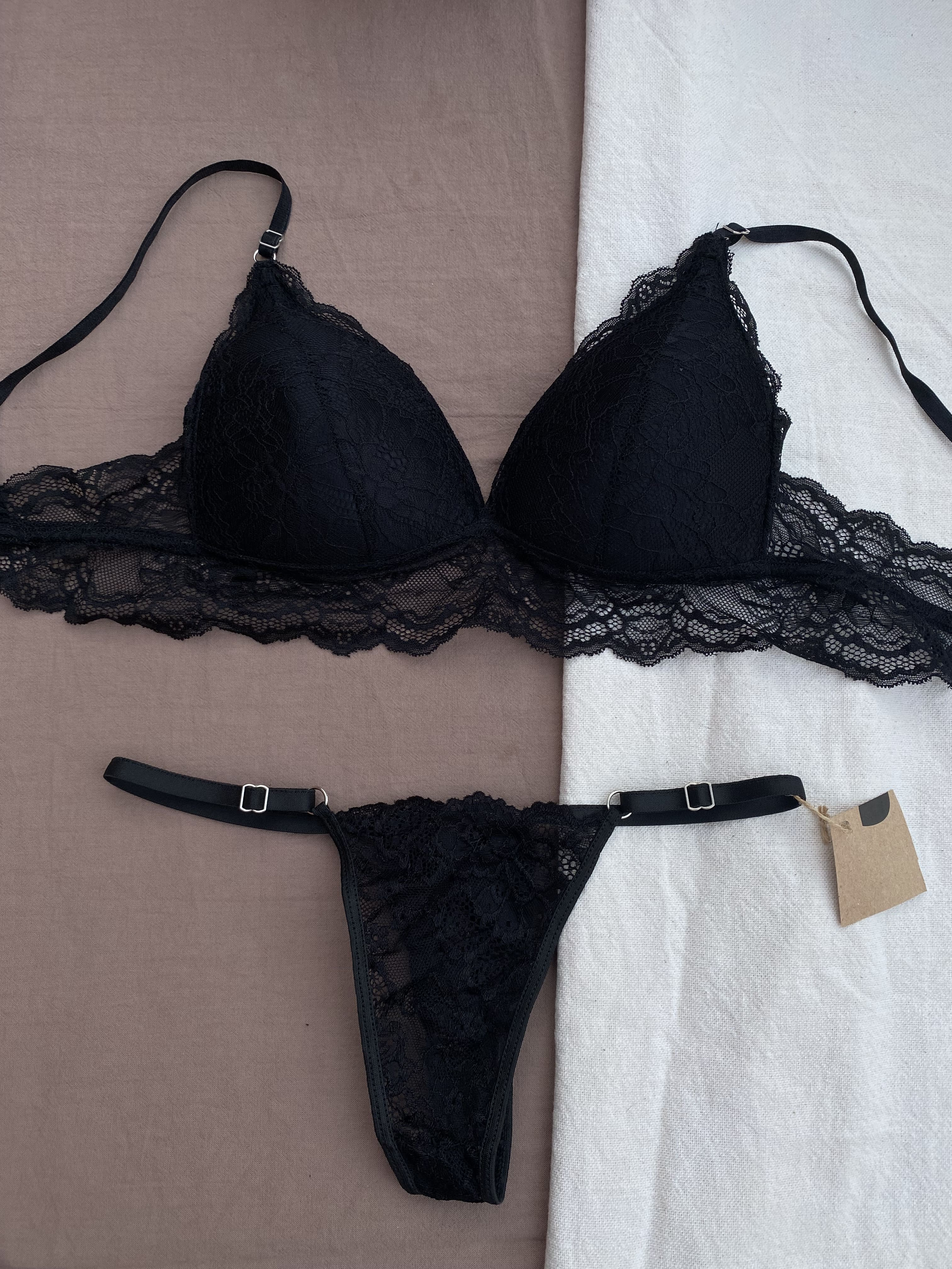
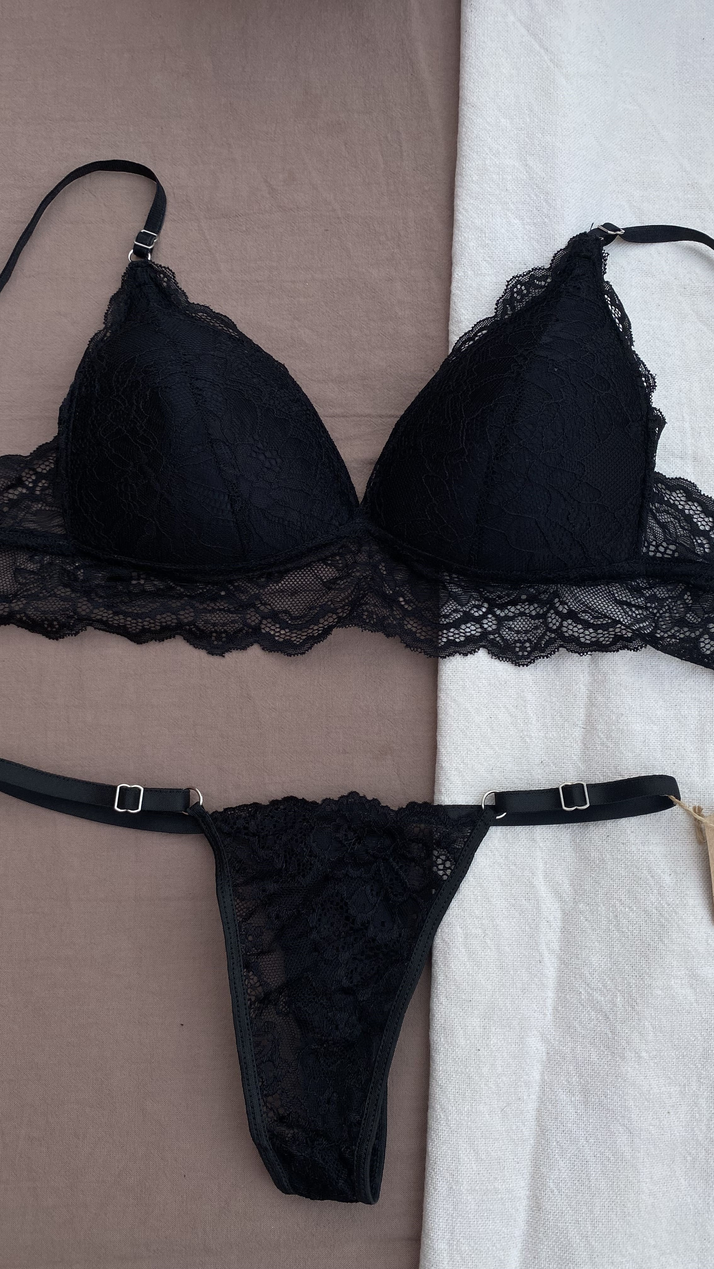
Se recortaron imagenes y se cambio el footer

Changed region(s): [[0.0, 0.0, 1.0, 1.0]]

diff --git a/pages/ropa_interior.html b/pages/ropa_interior.html
@@ -95,7 +95,7 @@
                 <article>
                     <img src="../assets/conj_magdalena.jpg" alt="Imagen a modo ilustrativo de un producto">
                     <h3> Conjunto Magdalena </h3>
-                    <p>$7500 <br> Conjunto de encaje con tazas soft color negro</p>
+                    <p>$7500 <br> Conjunto de encaje c/tazas soft color negro</p>
                     <a href="#" class="btn btn boton_azul">Ver más</a>
                 </article>
                 </div>
@@ -128,14 +128,12 @@
                 </div>
                 <div class="btn-group dropup">
                     <button type="button" class="btn btn-light dropdown-toggle" data-bs-toggle="dropdown" aria-expanded="false">
-                        Donde encontrarnos
+                        Redes
                     </button>
                     <ul class="dropdown-menu footer_menu"> <!-- Dropdown menu links -->
                         <li><a href="https://www.instagram.com/kachudaconk?igsh=N25yMm43b2F3MWNj">Instagram</a></li>
                         <li><hr class="dropdown-divider"></li>
                         <li><a href="http://wa.me/3515529492">Whatsapp</a></li>
-                        <li><hr class="dropdown-divider"></li>
-                        <li><a href="">Showroom</a></li> 
                     </ul>
                 </div>
             </div>

diff --git a/index.html b/index.html
@@ -150,14 +150,12 @@
                 </div>
                 <div class="btn-group dropup">
                     <button type="button" class="btn btn-light dropdown-toggle" data-bs-toggle="dropdown" aria-expanded="false">
-                        Donde encontrarnos
+                        Redes
                     </button>
                     <ul class="dropdown-menu footer_menu"> <!-- Dropdown menu links -->
                         <li><a href="https://www.instagram.com/kachudaconk?igsh=N25yMm43b2F3MWNj">Instagram</a></li>
                         <li><hr class="dropdown-divider"></li>
                         <li><a href="http://wa.me/3515529492">Whatsapp</a></li>
-                        <li><hr class="dropdown-divider"></li>
-                        <li><a href="">Showroom</a></li> 
                     </ul>
                 </div>
             </div>

diff --git a/pages/basicos.html b/pages/basicos.html
@@ -100,14 +100,12 @@
                 </div>
                 <div class="btn-group dropup">
                     <button type="button" class="btn btn-light dropdown-toggle" data-bs-toggle="dropdown" aria-expanded="false">
-                        Donde encontrarnos
+                        Redes
                     </button>
                     <ul class="dropdown-menu footer_menu"> <!-- Dropdown menu links -->
                         <li><a href="https://www.instagram.com/kachudaconk?igsh=N25yMm43b2F3MWNj">Instagram</a></li>
                         <li><hr class="dropdown-divider"></li>
                         <li><a href="http://wa.me/3515529492">Whatsapp</a></li>
-                        <li><hr class="dropdown-divider"></li>
-                        <li><a href="">Showroom</a></li> 
                     </ul>
                 </div>
             </div>

diff --git a/pages/conjuntos.html b/pages/conjuntos.html
@@ -135,14 +135,12 @@
                 </div>
                 <div class="btn-group dropup">
                     <button type="button" class="btn btn-light dropdown-toggle" data-bs-toggle="dropdown" aria-expanded="false">
-                        Donde encontrarnos
+                        Redes
                     </button>
                     <ul class="dropdown-menu footer_menu"> <!-- Dropdown menu links -->
                         <li><a href="https://www.instagram.com/kachudaconk?igsh=N25yMm43b2F3MWNj">Instagram</a></li>
                         <li><hr class="dropdown-divider"></li>
                         <li><a href="http://wa.me/3515529492">Whatsapp</a></li>
-                        <li><hr class="dropdown-divider"></li>
-                        <li><a href="">Showroom</a></li> 
                     </ul>
                 </div>
             </div>

diff --git a/pages/accesorios.html b/pages/accesorios.html
@@ -96,14 +96,12 @@
                 </div>
                 <div class="btn-group dropup">
                     <button type="button" class="btn btn-light dropdown-toggle" data-bs-toggle="dropdown" aria-expanded="false">
-                        Donde encontrarnos
+                        Redes
                     </button>
                     <ul class="dropdown-menu footer_menu"> <!-- Dropdown menu links -->
                         <li><a href="https://www.instagram.com/kachudaconk?igsh=N25yMm43b2F3MWNj">Instagram</a></li>
                         <li><hr class="dropdown-divider"></li>
                         <li><a href="http://wa.me/3515529492">Whatsapp</a></li>
-                        <li><hr class="dropdown-divider"></li>
-                        <li><a href="">Showroom</a></li> 
                     </ul>
                 </div>
             </div>

diff --git a/pages/arma_tu_conjunto.html b/pages/arma_tu_conjunto.html
@@ -90,14 +90,12 @@
                 </div>
                 <div class="btn-group dropup">
                     <button type="button" class="btn btn-light dropdown-toggle" data-bs-toggle="dropdown" aria-expanded="false">
-                        Donde encontrarnos
+                        Redes
                     </button>
                     <ul class="dropdown-menu footer_menu"> <!-- Dropdown menu links -->
                         <li><a href="https://www.instagram.com/kachudaconk?igsh=N25yMm43b2F3MWNj">Instagram</a></li>
                         <li><hr class="dropdown-divider"></li>
                         <li><a href="http://wa.me/3515529492">Whatsapp</a></li>
-                        <li><hr class="dropdown-divider"></li>
-                        <li><a href="">Showroom</a></li> 
                     </ul>
                 </div>
             </div>
